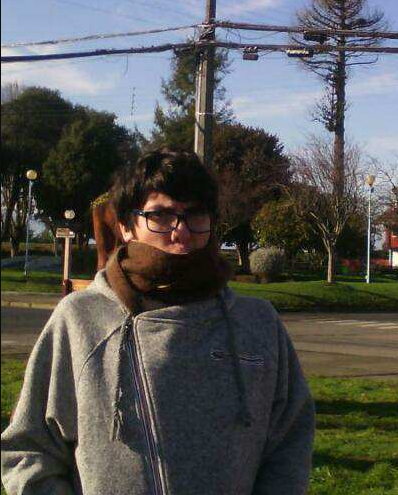
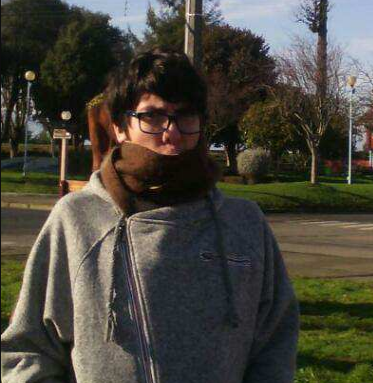
fotos staff

diff --git a/staff.html b/staff.html
@@ -82,7 +82,7 @@
 </div><!--card cancel -->
 <div class="card">
          <div class="img">
-            <img src="http://www.yabengineering.com/Content/images/staff-default-m.png" alt="simple card" class="responsive">
+            <img src="assets/images/staff/gabriel_monarez1.jpeg" alt="simple card" class="responsive">
          </div>
          <div class="info">
             <p><h4>Gabriel Monarez</h4></p>

diff --git a/assets/css/custom_style.css b/assets/css/custom_style.css
@@ -14,7 +14,7 @@
 
 .card .img {
 	position: relative;
-	overflow:hidden;
+	//overflow:hidden;
 	/*
 	margin: 2%;
 	padding: 0px;
@@ -31,14 +31,15 @@
 }
 
 .card img{
+
 	border-top-left-radius: 1.4em;
 	border-top-right-radius: 1.4em;
 	min-width: 100%;
 	max-width: 100%;
 	min-height: 15em;
 	max-height: 15em;
-	
-}*/
+
+}
 
 .career_info{
 	color: red;
